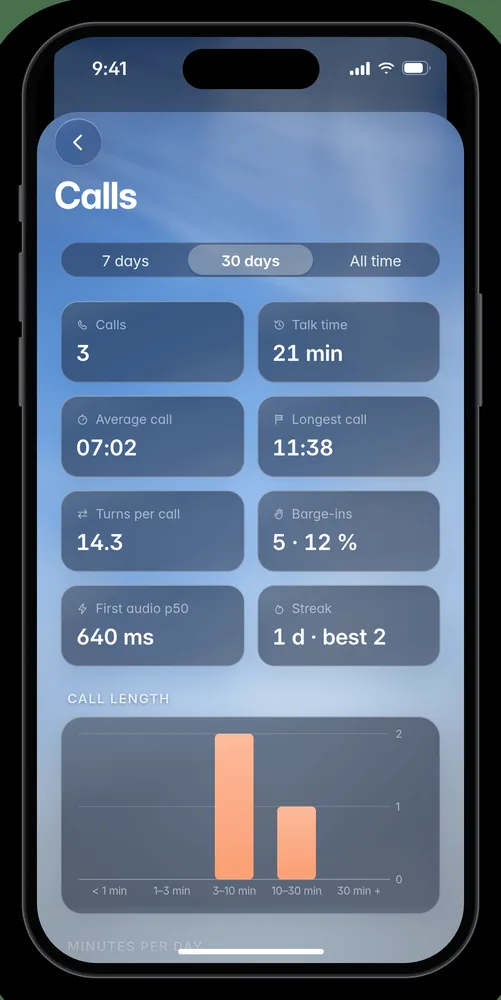
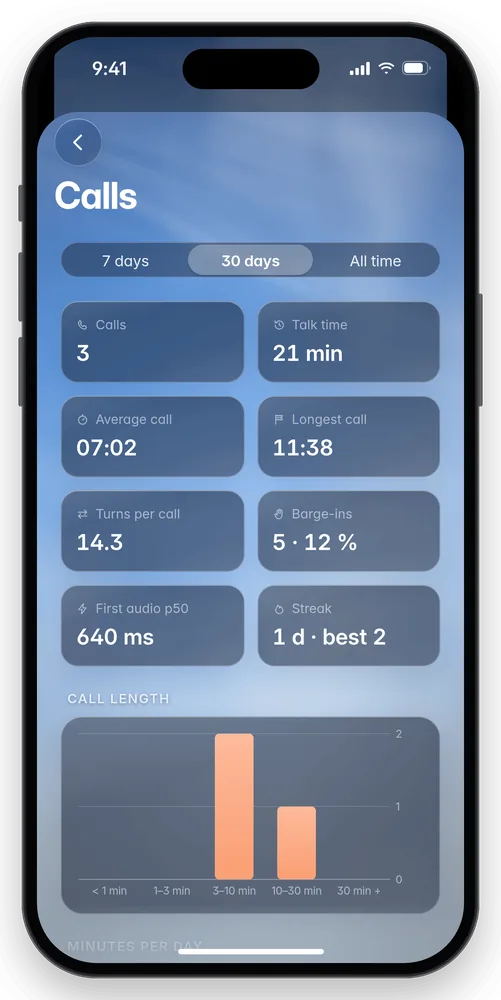
Site: iPhone mockups keep their transparent corners; lighter phone tiles

Changed region(s): [[0.0, 0.0, 1.0, 1.0]]

diff --git a/index.html b/index.html
@@ -123,10 +123,10 @@
       .x-grid--shots figcaption { padding: 10px 8px 4px; font: var(--type-small); }
       .x-zoom { display: block; border-radius: inherit; cursor: zoom-in; }
       .x-zoom:focus-visible { outline: 2px solid #fff; outline-offset: 3px; }
-      .x-phones-grid { display: grid; gap: 24px 20px; grid-template-columns: repeat(auto-fill, minmax(min(44%, 190px), 1fr)); max-width: 980px; }
+      .x-phones-grid { display: grid; gap: 24px 20px; grid-template-columns: repeat(auto-fill, minmax(min(44%, 190px), 1fr)); max-width: 1120px; }
       .x-phone-shot { margin: 0; }
-      .x-phone-frame { padding: 7px; border-radius: 17% / 8.4%; background: linear-gradient(160deg, rgb(255 255 255 / 0.5), rgb(255 255 255 / 0.12) 40%, rgb(255 255 255 / 0.3)); box-shadow: inset 0 0 0 1px rgb(255 255 255 / 0.25), 0 14px 40px rgb(0 0 20 / 0.3); }
-      .x-phone-frame img { width: 100%; aspect-ratio: 1383 / 2760; object-fit: cover; border-radius: 15% / 7.4%; background: #0b1a3a; }
+      .x-phone-frame { border-radius: 16% / 8%; }
+      .x-phone-frame img { width: 100%; aspect-ratio: 1383 / 2760; object-fit: contain; filter: drop-shadow(0 14px 30px rgb(0 0 20 / 0.35)); }
       .x-phone-shot figcaption { margin-top: 10px; padding-inline: 4px; font: var(--type-small); color: rgb(255 255 255 / 0.9); }
       /* lightbox */
       .x-lb { border: 0; padding: 0; background: transparent; max-width: 96vw; max-height: 94vh; overflow: visible; }
